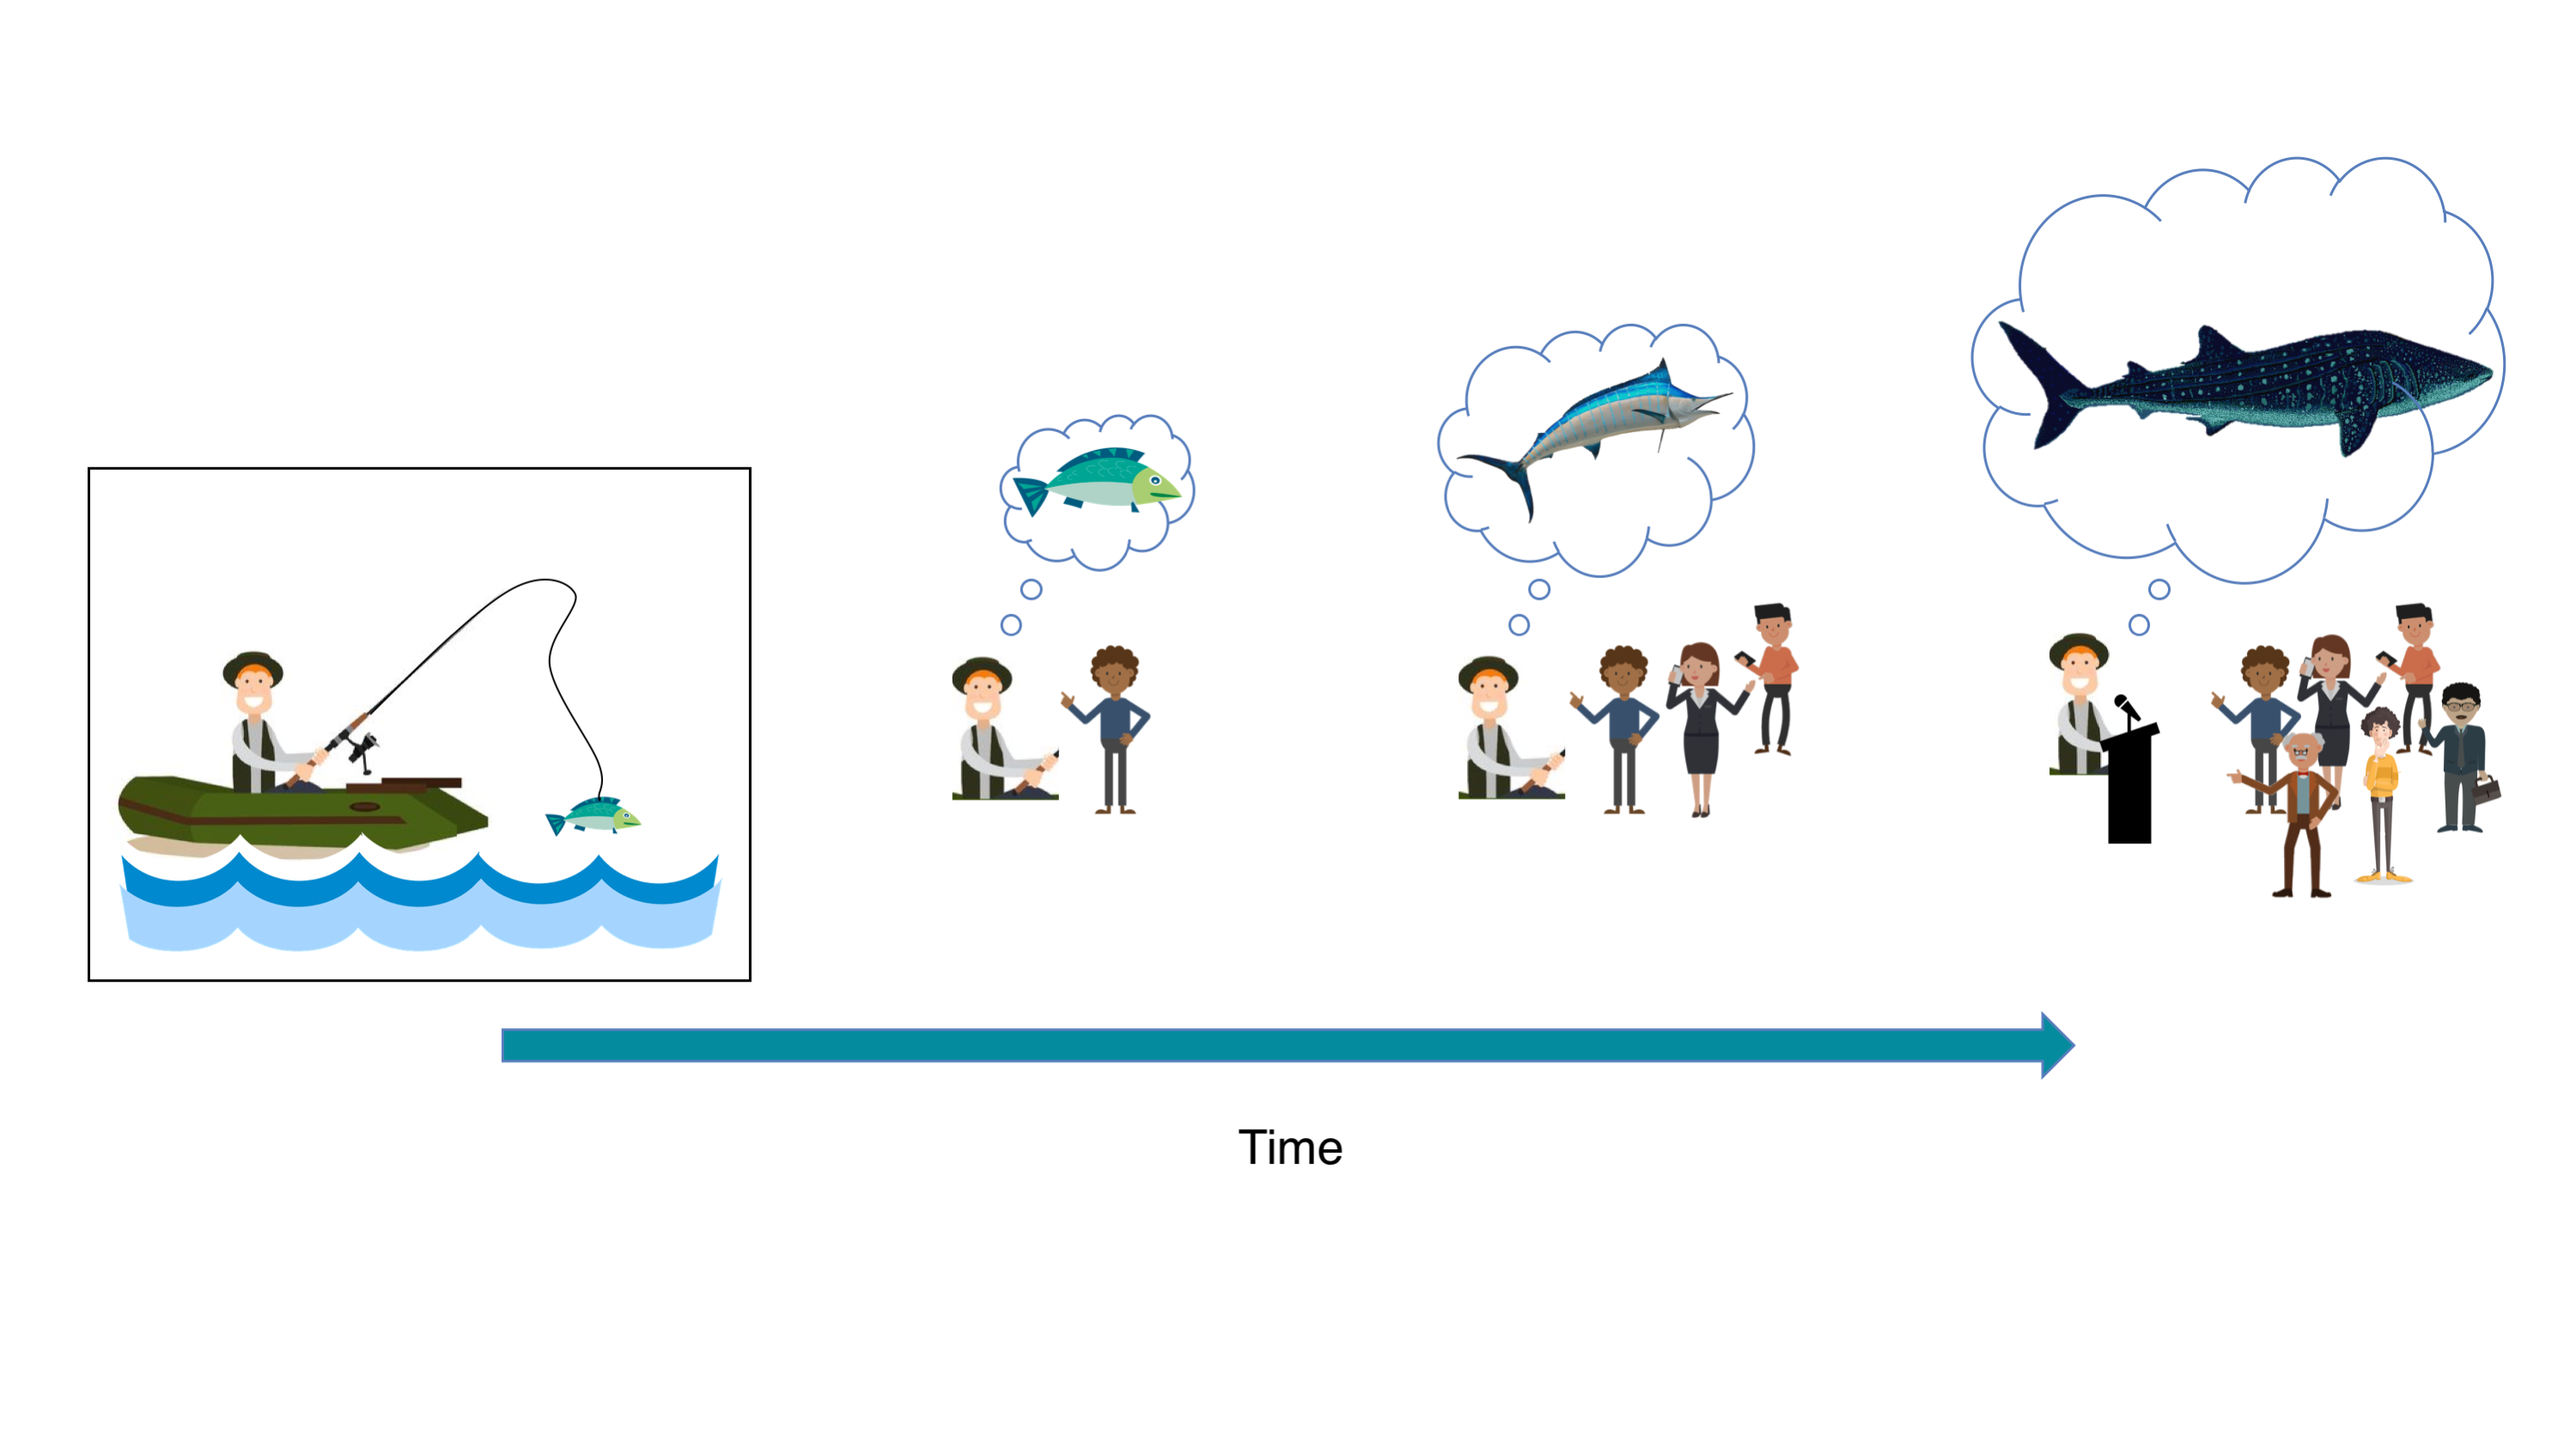
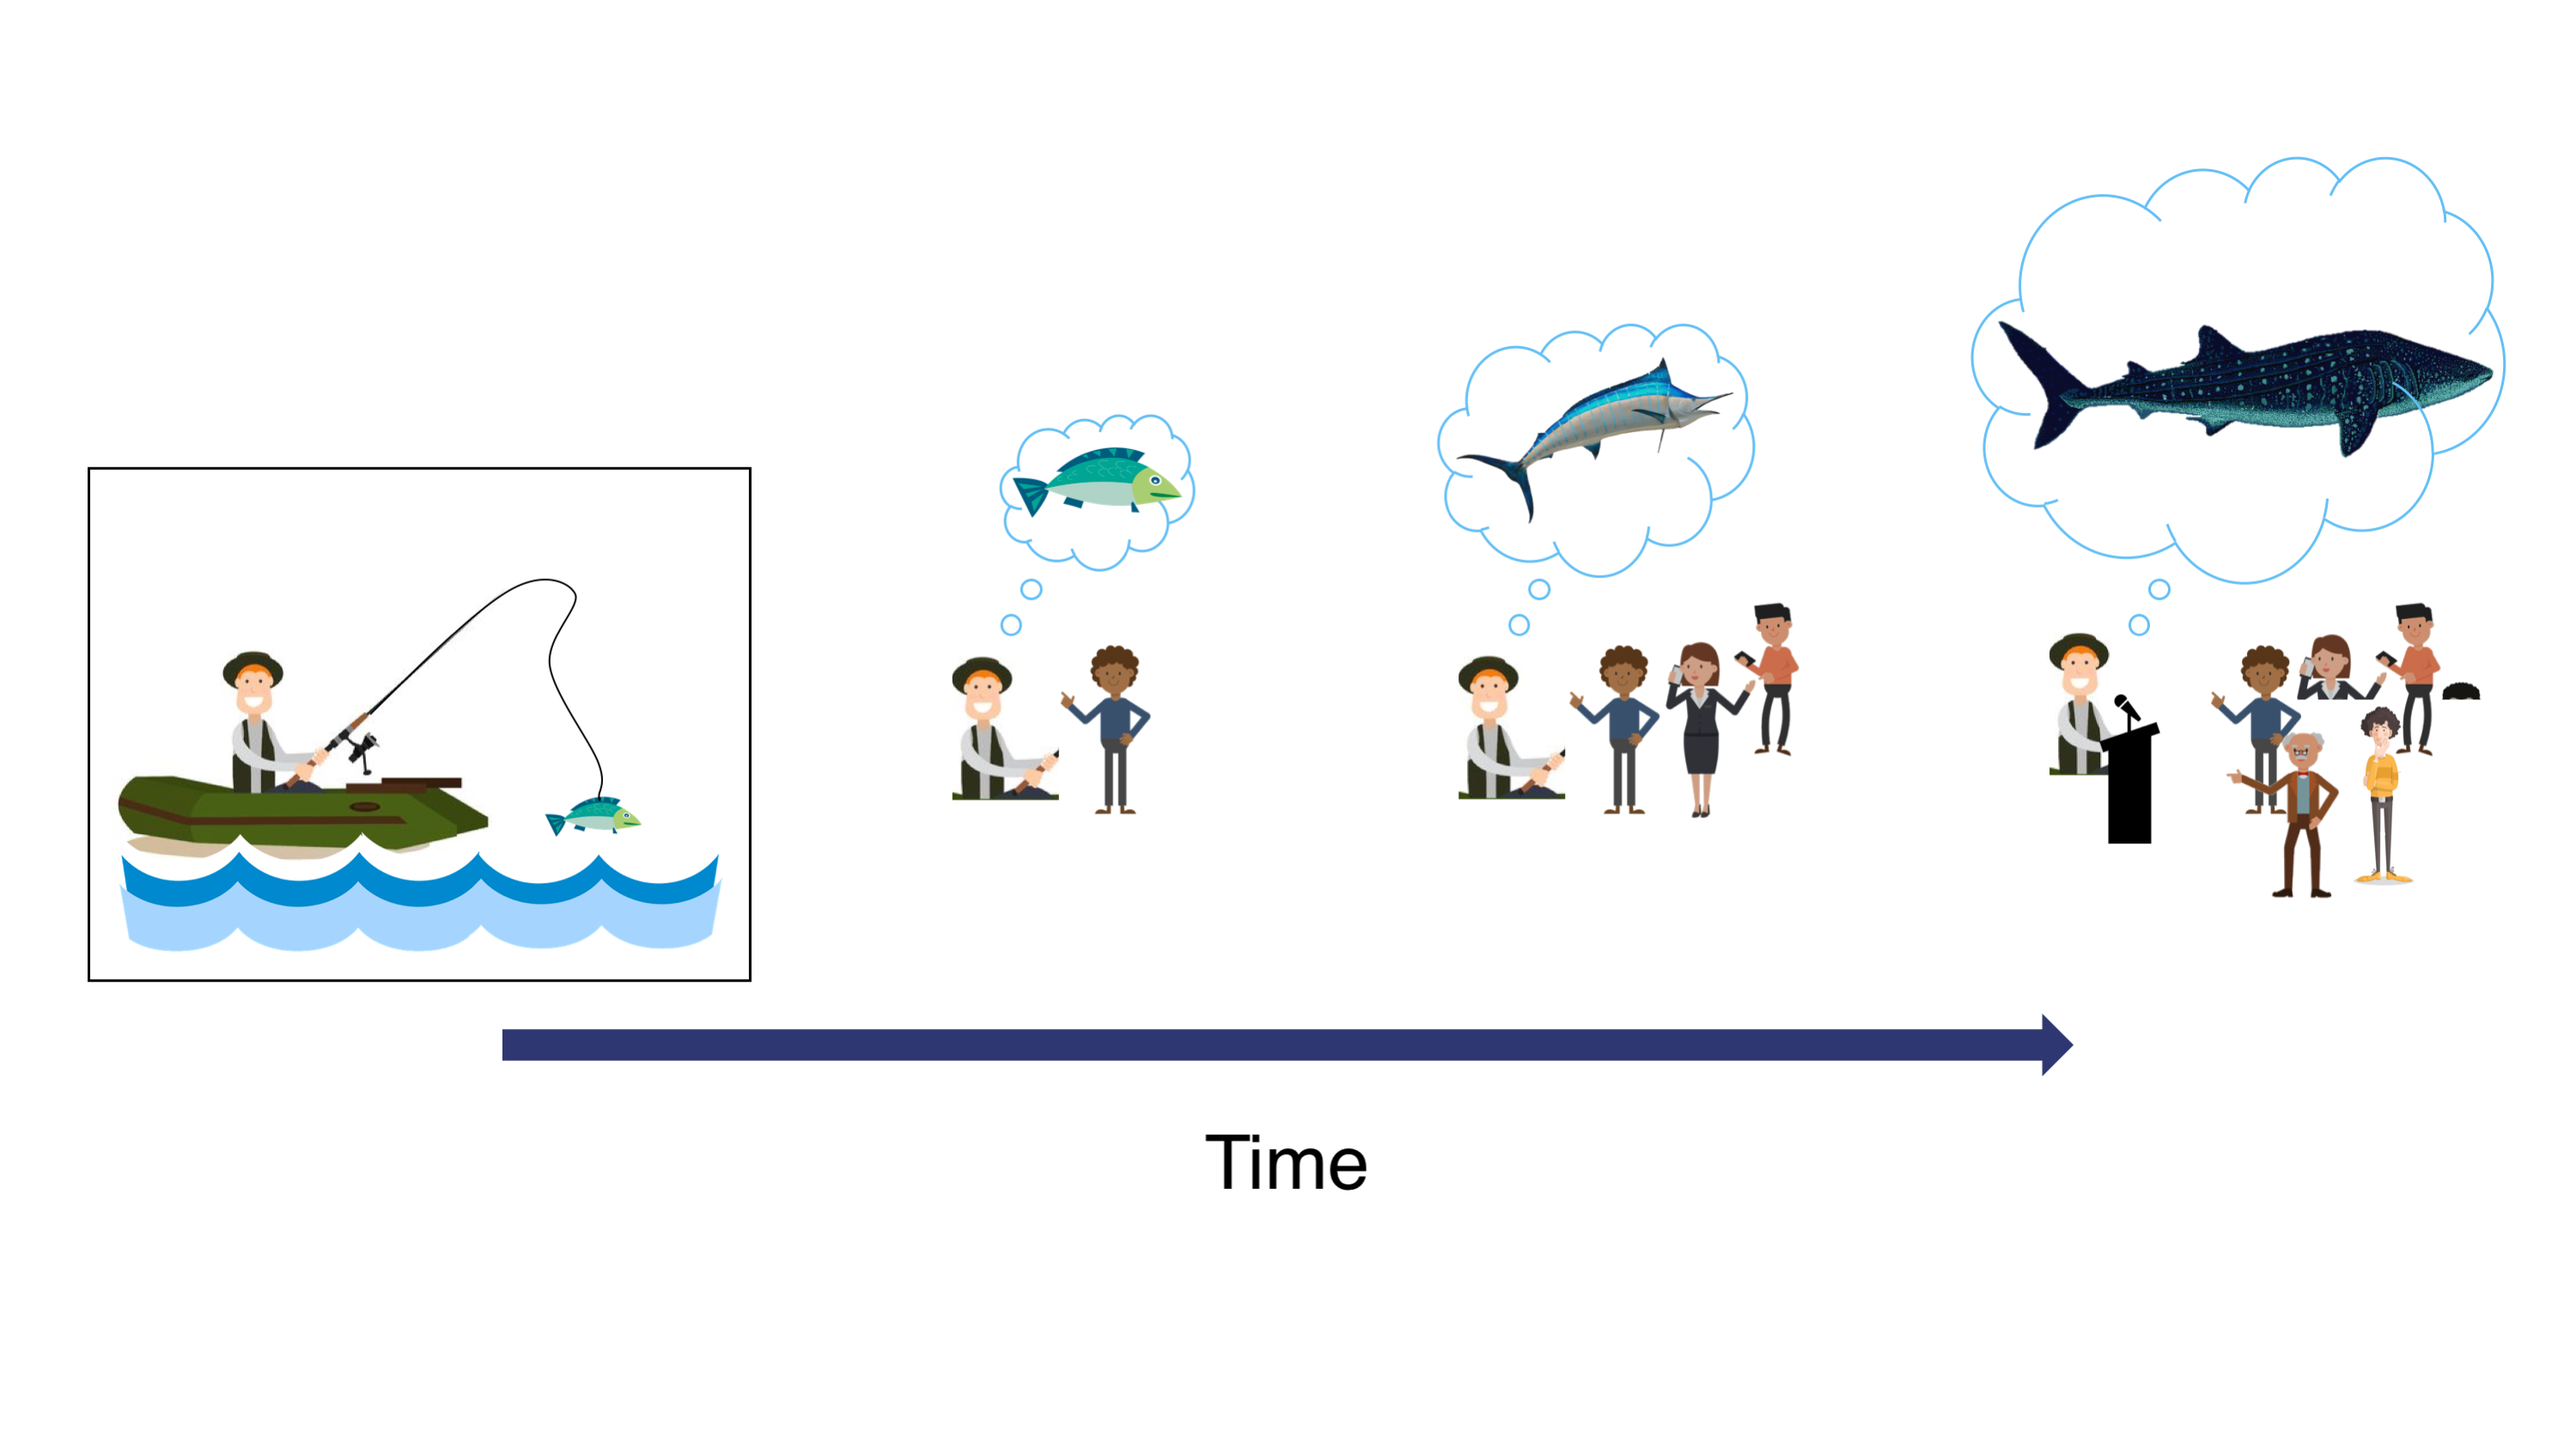
color changes

Changed region(s): [[0.1861, 0.709, 0.8063, 0.7398], [0.8993, 0.4624, 0.9923, 0.5857], [0.4652, 0.7706, 0.5272, 0.8322]]

diff --git a/output/2018/08/update.html b/output/2018/08/update.html
@@ -2288,7 +2288,7 @@
 <h3>measuring memory change</h3>
 <p>Most memory studies rely on showing someone a stimuli (like a word or photograph), waiting, and then asking if the person remembered that thing. The yields a simple “yes” or “no” response -- there is no gray area. It’s difficult to measure <em>how much</em> a memory changed in this type of test format. To get around this problem, I designed a spatial memory task that required subjects to use the mouse to place an object back in its location. This type of task yielded a graded measure of memory: distance. I was able to measure the distance each object was placed from the original location and track how placement changed over the course of multiple tests.</p>
 <p>I designed the experiment to examine how a memory shifts each time we remember it. In this study, participants learned object-location associations, meaning each object was presented in a specific location on the screen. I tested the subjects every day for three days. subjects were asked to place each object back in its original location. As in real life after we experience an event, subjects never received feedback about whether or not they had placed the object in the correct spot. With this test, I was able to measure the two features of memory distortion: 1) How much did participants forget the original location of the course of the three days? and 2) Did the locations they chose depend more on the <em>original location</em> or on the <em>location that they had last selected</em>?</p>
-<p><img alt="fig2" src="/images/telephone_spatial.jpg"></p>
+<p><img alt="fig2" src="/images/telephone_spatial.png"></p>
 <p>First I looked at <em>forgetting</em> by seeing how far away they placed the object over the three-day period. For this analysis, I simply measured the distance each object was placed from its original location on each of the tests at Day 1, Day 2, and Day 3. Interestingly, there was a big drop in performance from Day 1 to Day 2, but forgetting leveled off, as memory declined substantially less from Day 2 to Day 3. These results suggest that after an event, our memory drops off immediately, and we forget a lot of the details and context information. But after that initial drop-off period, our memories maintain stability. These results are in line with other studies of memory consolidation that show that older memories are more stable than newer memories. It also resembles the classic <a href="https://en.wikipedia.org/wiki/Forgetting_curve" target="_blank">Ebbinghause forgetting curve</a>, which shows a steep drop-off in accuracy immediately after learning and then levels off as time goes on.</p>
 <p><img alt="fig3" src="/images/react_kdeForgetting.png"></p>
 <p>Next I looked at how each test influenced the content of memory on each subsequent test. For this analysis, I looked at final memory outcome on the Day 3 test. I measured the distance each object was placed from 3 different locations: the originally studied location, the location subjects placed the object on the Day 1 test, and the location subjects placed the object on the Day 2 test. In this way, I could see how each of these experiences influenced where subjects placed the object on the final Day 3 test. Interestingly, the results showed increasing influence of the most recent test on final memory performance. Subjects placed objects closest to the Day 2 test location, followed by the Day 1 test location, and farthest from the originally studied location. <a href="/pdfs/bridge12.pdf" target="_blank">(Bridge, 2012)</a></p>
@@ -2297,7 +2297,7 @@
 <h3>it’s not just about what you experienced recently…</h3>
 <p>Based on that study, it could be that case that every time we remember an event, we change it by incorporating the retrieved information into the original memory. But, there is an alternative hypothesis. It could be, that we are just more likely to remember things that happened recently rather than things that happened far in the past. Subjects remembered the Day 2 test location the best on the Day 3 test, but they also encountered that location most recently. To get to the bottom of this, I designed another study to determine if recency was really the underlying cause of this effect.</p>
 <p>In this new study, I implemented 2 different conditions. First, subjects studied objects in unique locations. Then, in an “Active” condition, I asked subjects to place each object back in its original location (to the best of their ability), so they were required to remember each object’s location as in the first study. In a second condition called a “Passive” condition, I randomly chose new locations on the screen and told subjects to place each object in one of these random locations. So to clarify the differences in these conditions, in the Active condition, subjects had to recall from memory each object’s location (which always diverged a bit from the original location, because our memory is never perfect!). On the other hand, in the Passive condition, I chose the wrong locations for subjects to place each object in. After the Active or Passive manipulation, subjects completed a final test. On this test, they saw each object in 3 locations, and they were prompted to select the object’s original location. The object choices were the original location, the updated location, and a new location.</p>
-<p><img alt="fig5" src="/images/cxtupDesign_samecxt.jpg"></p>
+<p><img alt="fig5" src="/images/cxtupDesign_samecxt.png"></p>
 <p>If the updating effect I saw in the first study was really just about recency, it shouldn’t matter if I show subjects the wrong location or that mistakenly recall the wrong location -- they should remember the most recently encountered location on the final test. On the other hand, if updating only happens when we actively remember the wrong location, then subjects should only choose the updated location in the Active condition, but not the Passive condition.</p>
 <h3>results</h3>
 <p>It turns out remembering events is really special. Subjects were not easily tricked into thinking the wrong location I selected was the object’s original location. In the Passive location, subjects disproportionately chose the original location over the other options. However, updating was prevalent in the Active condition. Subjects usually chose the updated (incorrectly remembered) location on the final test instead of the other choices. These results show that remembering events provides an opportunity to update them. The good news is that we are not easily fooled by incorrect information that does not match our memories. <a href="/pdfs/bridge14jon.pdf" target="_blank">(Bridge, 2014 (1))</a></p>

diff --git a/content/articles/update.md b/content/articles/update.md
@@ -26,7 +26,7 @@ Most memory studies rely on showing someone a stimuli (like a word or photograph
 
 I designed the experiment to examine how a memory shifts each time we remember it. In this study, participants learned object-location associations, meaning each object was presented in a specific location on the screen. I tested the subjects every day for three days. subjects were asked to place each object back in its original location. As in real life after we experience an event, subjects never received feedback about whether or not they had placed the object in the correct spot. With this test, I was able to measure the two features of memory distortion: 1) How much did participants forget the original location of the course of the three days? and 2) Did the locations they chose depend more on the *original location* or on the *location that they had last selected*?
 
-![fig2](/images/telephone_spatial.jpg)
+![fig2](/images/telephone_spatial.png)
 
 First I looked at *forgetting* by seeing how far away they placed the object over the three-day period. For this analysis, I simply measured the distance each object was placed from its original location on each of the tests at Day 1, Day 2, and Day 3. Interestingly, there was a big drop in performance from Day 1 to Day 2, but forgetting leveled off, as memory declined substantially less from Day 2 to Day 3. These results suggest that after an event, our memory drops off immediately, and we forget a lot of the details and context information. But after that initial drop-off period, our memories maintain stability. These results are in line with other studies of memory consolidation that show that older memories are more stable than newer memories. It also resembles the classic [Ebbinghause forgetting curve](https://en.wikipedia.org/wiki/Forgetting_curve){:target="_blank"}, which shows a steep drop-off in accuracy immediately after learning and then levels off as time goes on.
 
@@ -43,7 +43,7 @@ Based on that study, it could be that case that every time we remember an event,
 
 In this new study, I implemented 2 different conditions. First, subjects studied objects in unique locations. Then, in an “Active” condition, I asked subjects to place each object back in its original location (to the best of their ability), so they were required to remember each object’s location as in the first study. In a second condition called a “Passive” condition, I randomly chose new locations on the screen and told subjects to place each object in one of these random locations. So to clarify the differences in these conditions, in the Active condition, subjects had to recall from memory each object’s location (which always diverged a bit from the original location, because our memory is never perfect!). On the other hand, in the Passive condition, I chose the wrong locations for subjects to place each object in. After the Active or Passive manipulation, subjects completed a final test. On this test, they saw each object in 3 locations, and they were prompted to select the object’s original location. The object choices were the original location, the updated location, and a new location.
 
-![fig5](/images/cxtupDesign_samecxt.jpg)
+![fig5](/images/cxtupDesign_samecxt.png)
 
 If the updating effect I saw in the first study was really just about recency, it shouldn’t matter if I show subjects the wrong location or that mistakenly recall the wrong location -- they should remember the most recently encountered location on the final test. On the other hand, if updating only happens when we actively remember the wrong location, then subjects should only choose the updated location in the Active condition, but not the Passive condition.
 
